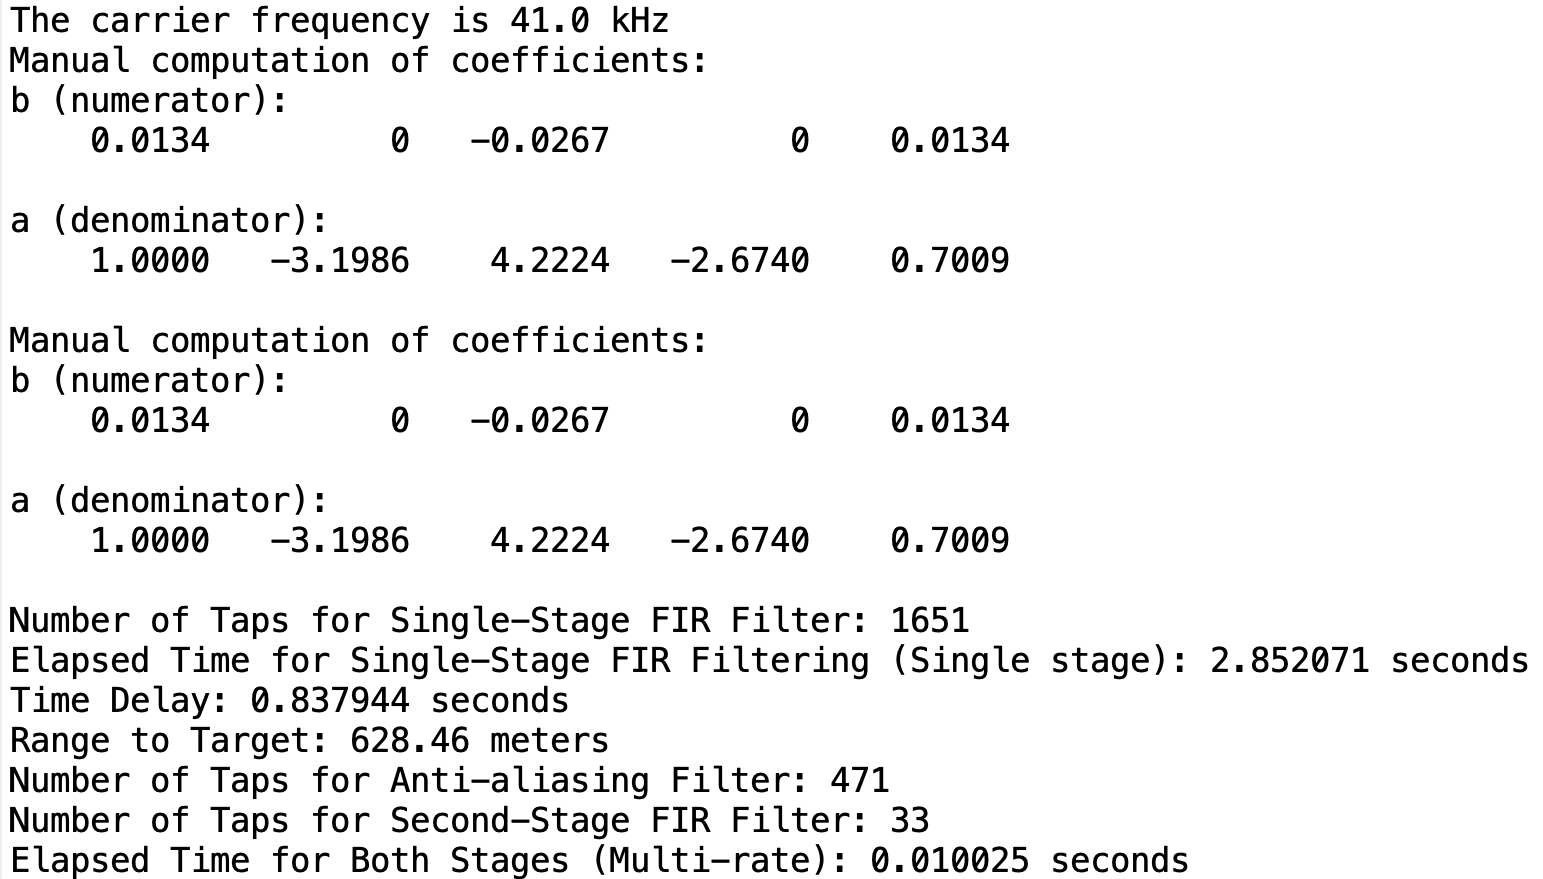
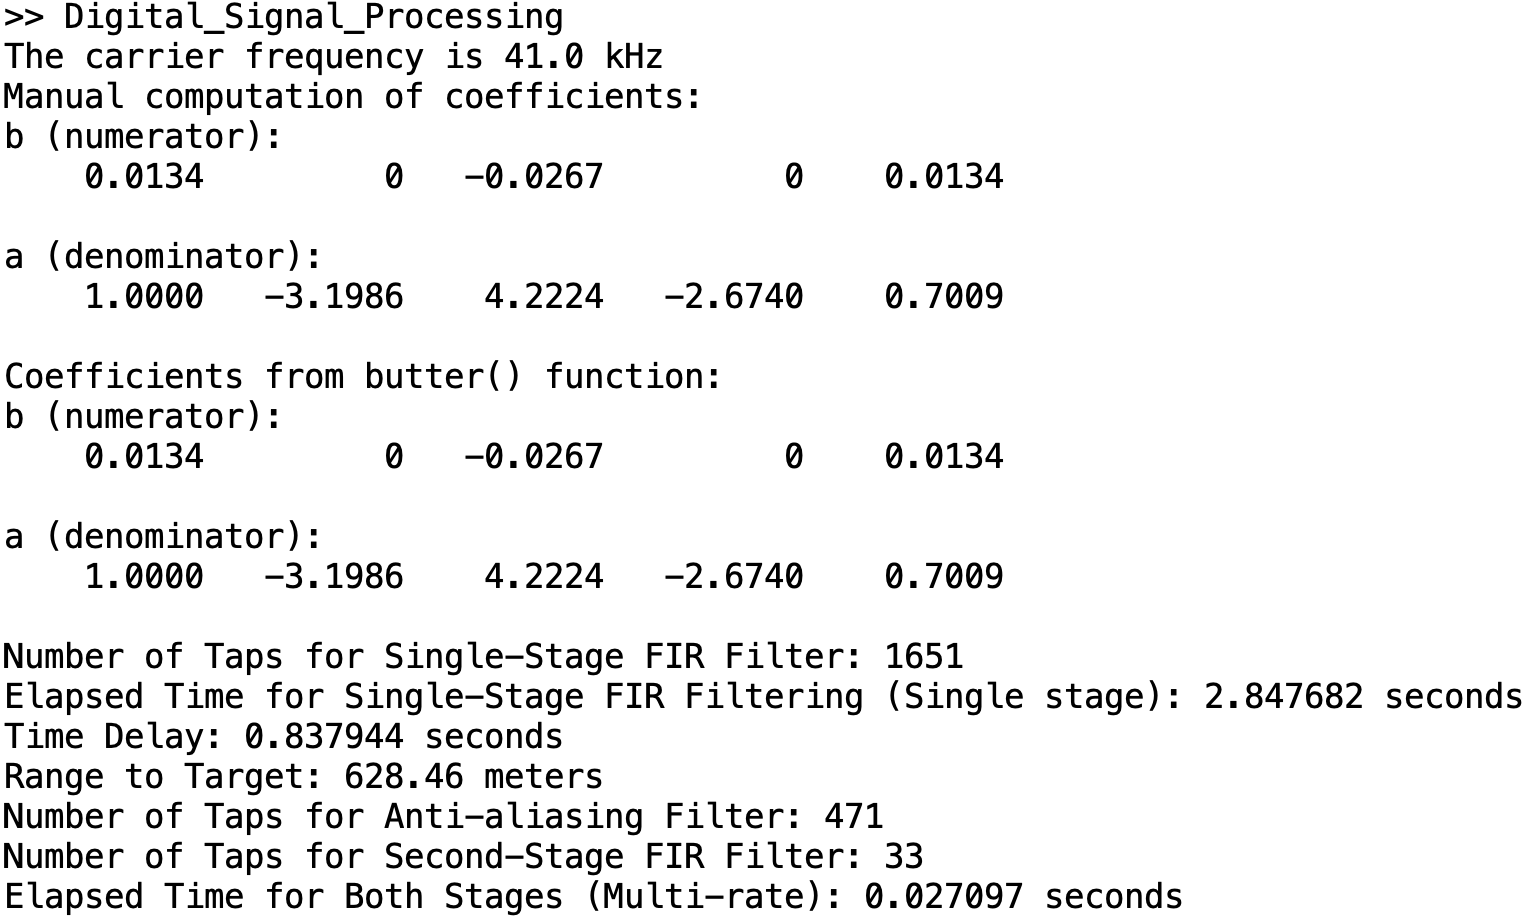
Enhanced for readability

diff --git a/Digital_Signal_Processing.m b/Digital_Signal_Processing.m
@@ -131,7 +131,7 @@ disp(b);
 disp('a (denominator):');
 disp(a);
 
-disp('Manual computation of coefficients:');
+disp('Coefficients from butter() function:');
 disp('b (numerator):');
 disp(b_);
 disp('a (denominator):');
